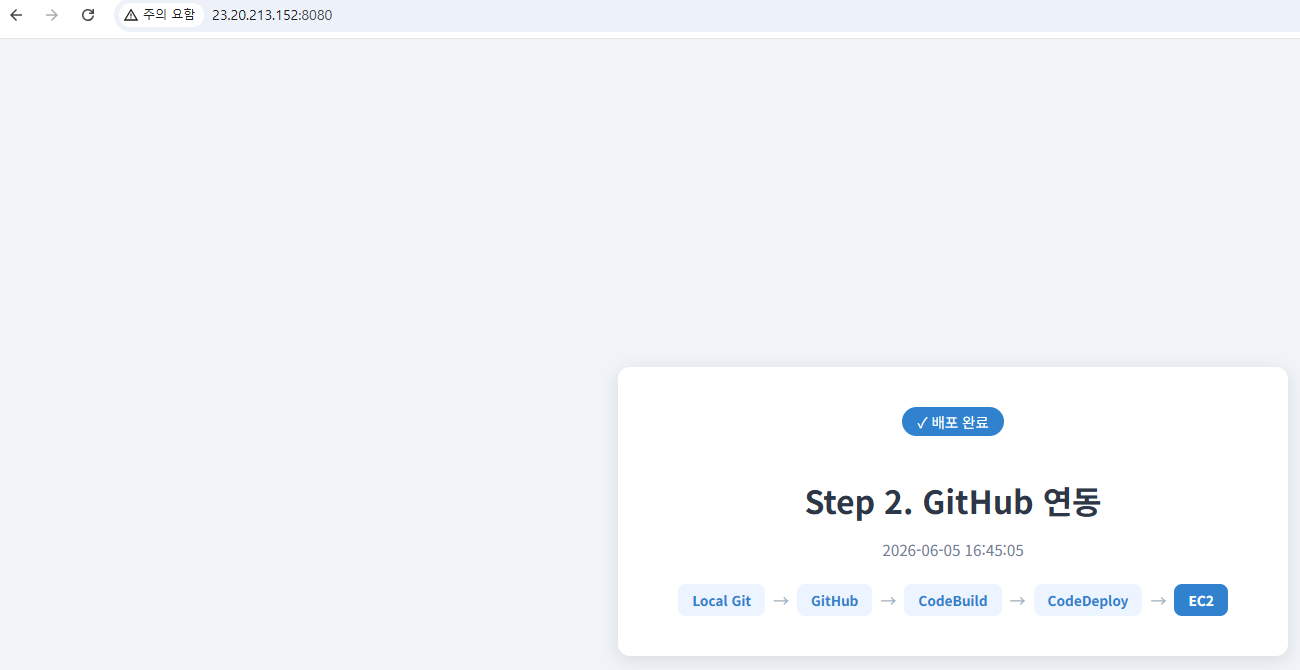
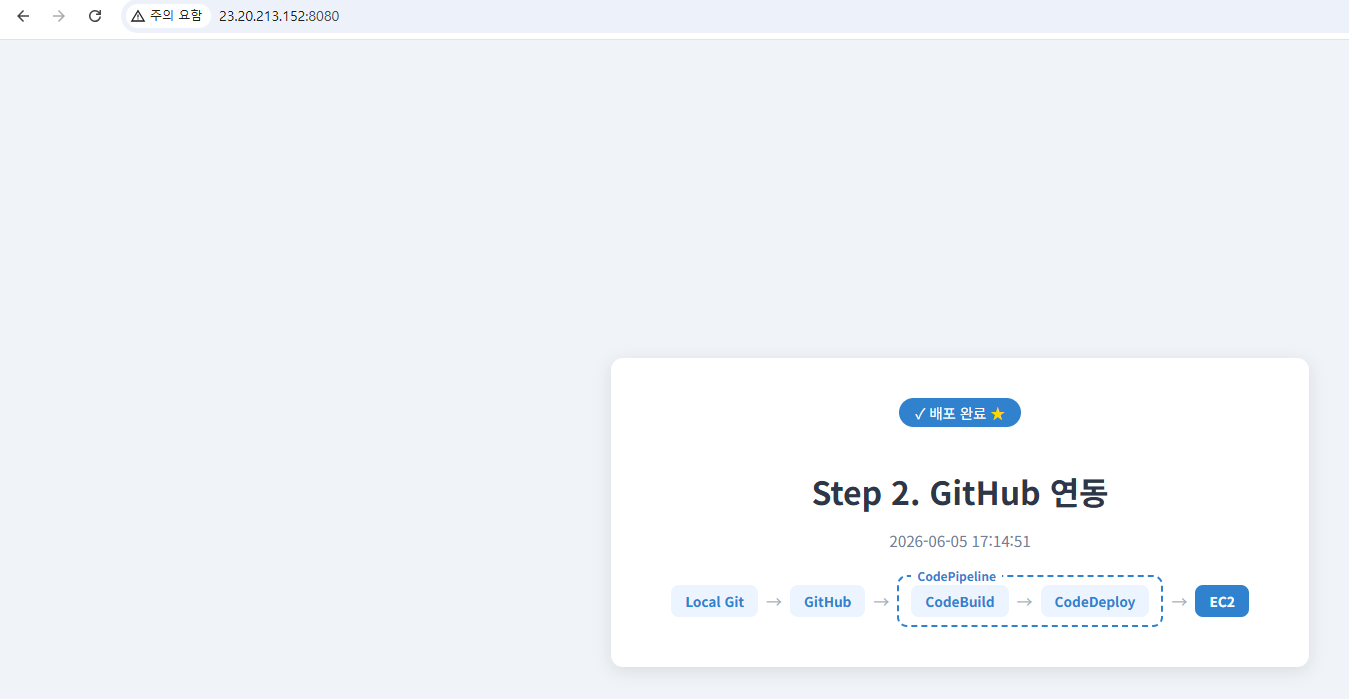
Step 2 : 정리 완료

diff --git a/docs/step2.md b/docs/step2.md
@@ -8,50 +8,13 @@
 
 ## 1. 역할 생성
 
-#### Code Build (CodeBuild-Role)
-
-| 정책 | 이유 |
-|------|------|
-| `AmazonS3FullAccess` | S3에 빌드 저장물(JAR)를 저장해야해서 |
-| `AWSCodeBuildAdminAccess` | CodeBuild 권한 |
-| `CloudWatchLogsFullAccess` | 빌드간 로그 남기기 위해 |
-
-#### Code Deploy (CodeDeploy-Role)
-
-| 정책 | 이유 |
-|------|------|
-| `AWSCodeDeployRole` | EC2 배포 명령 |
-
-#### EC2 (EC2-CodeDeploy-Role)
-
-| 정책 | 이유 |
-|------|------|
-| `AmazonEC2RoleforAWSCodeDeploy` | CodeDeploy 연동 |
-| `AmazonS3ReadOnlyAccess` | S3에서 빌드 저장물(JAR) 불러오려고 |
-| `AmazonSSMManagedInstanceCore` | SSM 연결시 EC2 Role에 추가해주고 재부팅 |
-| `CloudWatchAgentServerPolicy` | CloudWatch 로그 |
+> Step 재사용. 별도 생성 불필요.
 
 ---
 
 ## 2. 대상 EC2 생성
 
-- AMI: Amazon Linux 2023
-- 인스턴스 타입: t3.micro
-- IAM Role: `EC2-CodeDeploy-Role`
-- 보안 그룹: SSH(22), HTTP(80), 8080 인바운드 오픈
-- 태그: `Name = cicd-server`
-
-#### CodeDeploy Agent 설치
-
-> 참고: [CodeDeploy Agent 설치 가이드](https://docs.aws.amazon.com/ko_kr/codedeploy/latest/userguide/codedeploy-agent-operations-install-linux.html)
-
-```bash
-sudo yum install -y ruby wget
-wget https://aws-codedeploy-ap-northeast-2.s3.ap-northeast-2.amazonaws.com/latest/install
-chmod +x ./install
-sudo ./install auto
-sudo systemctl enable --now codedeploy-agent
-```
+> Step 1과 동일하게 재사용. 별도 생성 불필요.
 
 ---
 
@@ -59,100 +22,41 @@ sudo systemctl enable --now codedeploy-agent
 
 ![GitHub](step2/github.png)
 
-```bash
-git init
-git remote add origin https://github.com/<username>/cicd-aws-code-series.git
-git push -u origin main
-```
+---
+
+## 4. 설정 파일 구성
+
+> Step 1과 동일하게 재사용. 별도 생성 불필요.
 
 ---
 
-## 4. 설정 파일 구성 (buildspec.yml / appspec.yml / scripts/deploy.sh)
-
-### [buildspec.yml (빌드 명세서)](https://docs.aws.amazon.com/ko_kr/codebuild/latest/userguide/build-spec-ref.html#build-spec-ref-syntax)
-
-```yaml
-version: 0.2
-
-env:
-  variables:
-    APP_VERSION: "1.0.0"
-
-phases:
-  install:
-    runtime-versions:
-      java: corretto21 # https://docs.aws.amazon.com/ko_kr/codebuild/latest/userguide/available-runtimes.html
-  build:
-    commands:
-      - chmod +x ./gradlew
-      - ./gradlew build
-
-artifacts:
-  files:
-    - '**/*.jar'
-  base-directory: build/libs
-```
-
-### [appspec.yml (배포 명세서)](https://docs.aws.amazon.com/ko_kr/codedeploy/latest/userguide/reference-appspec-file.html)
-
-```yaml
-version: 0.0
-os: linux
-files:
-  - source: /          # 어떤 파일을 들고올껀지
-    destination: /home/ec2-user/spring  # 어디 위치에 풀껀지
-hooks:
-  ApplicationStart:
-    - location: scripts/deploy.sh
-      timeout: 60
-```
-
-### deploy.sh (Spring 재실행 배포 스크립트)
-
-```bash
-#!/bin/bash
-
-# 1. 로그 파일 경로 변수로 잡기
-LOG_FILE=/home/ec2-user/spring/logs/app-$(TZ=Asia/Seoul date +%Y%m%d).log
-
-# 2. logs 폴더 생성
-mkdir -p /home/ec2-user/spring/logs
-
-# 3. 배포 시작 시간 기록
-echo "===== 배포 시작: $(TZ=Asia/Seoul date '+%Y-%m-%d %H:%M:%S') =====" >> $LOG_FILE
-
-# 4. 기존 프로세스 있다면 종료
-if pgrep -f '*.jar' > /dev/null; then
-    kill -9 $(pgrep -f '*.jar')
-fi
-
-# 5. Spring 프로세스 기동
-nohup java -jar /home/ec2-user/spring/*.jar >> $LOG_FILE 2>&1 &
-```
-
----
-
-## 5. CodeBuild 프로젝트 생성
+## 5. CodeBuild 프로젝트 (Source : Code Commit → Github으로 변경)
 
 ![CodeBuild](step2/step2_codebuild.png)
 
-## 6. CodeDeploy 애플리케이션 + 배포 그룹 생성
-
-> 작성 예정
-
-## 7. CodePipeline 생성
+## 6. CodePipeline 생성
 
 ![CodePipeline](step2/step2_pipeline.png)
 
+로컬 Git에서 커밋 후 GitHub으로 푸시하면 GitHub Webhook이 CodePipeline을 트리거하고, 이후 CodeBuild → CodeDeploy 순으로 자동 실행됨.
+
+CodePipeline Source에 GitHub 연동 시 아래와 같이 AWS Connector 앱 설치 화면이 뜨며, 설치 완료 후 연결됨.
+
+![GitHub AWS App](step2/github_aws_app.png)
+
 ---
 
-## 8. 배포 결과
+## 7. 배포 결과
 
 ![After](step2/step2_after.png)
 
 ---
 
 ## 트러블슈팅
+
+### GitHub에 AWS Connector 앱 설치 필요
+
+CodeConnections로 GitHub 연결 시 GitHub → Settings → Applications → Installed GitHub Apps 에서 **AWS Connector for GitHub** 앱이 설치되어 있어야 함. 없으면 AWS 콘솔에서 연결 생성 시 GitHub 앱 설치까지 같이 진행해야 함.
 
 ### CodePipeline GitHub 연결 권한 오류
 